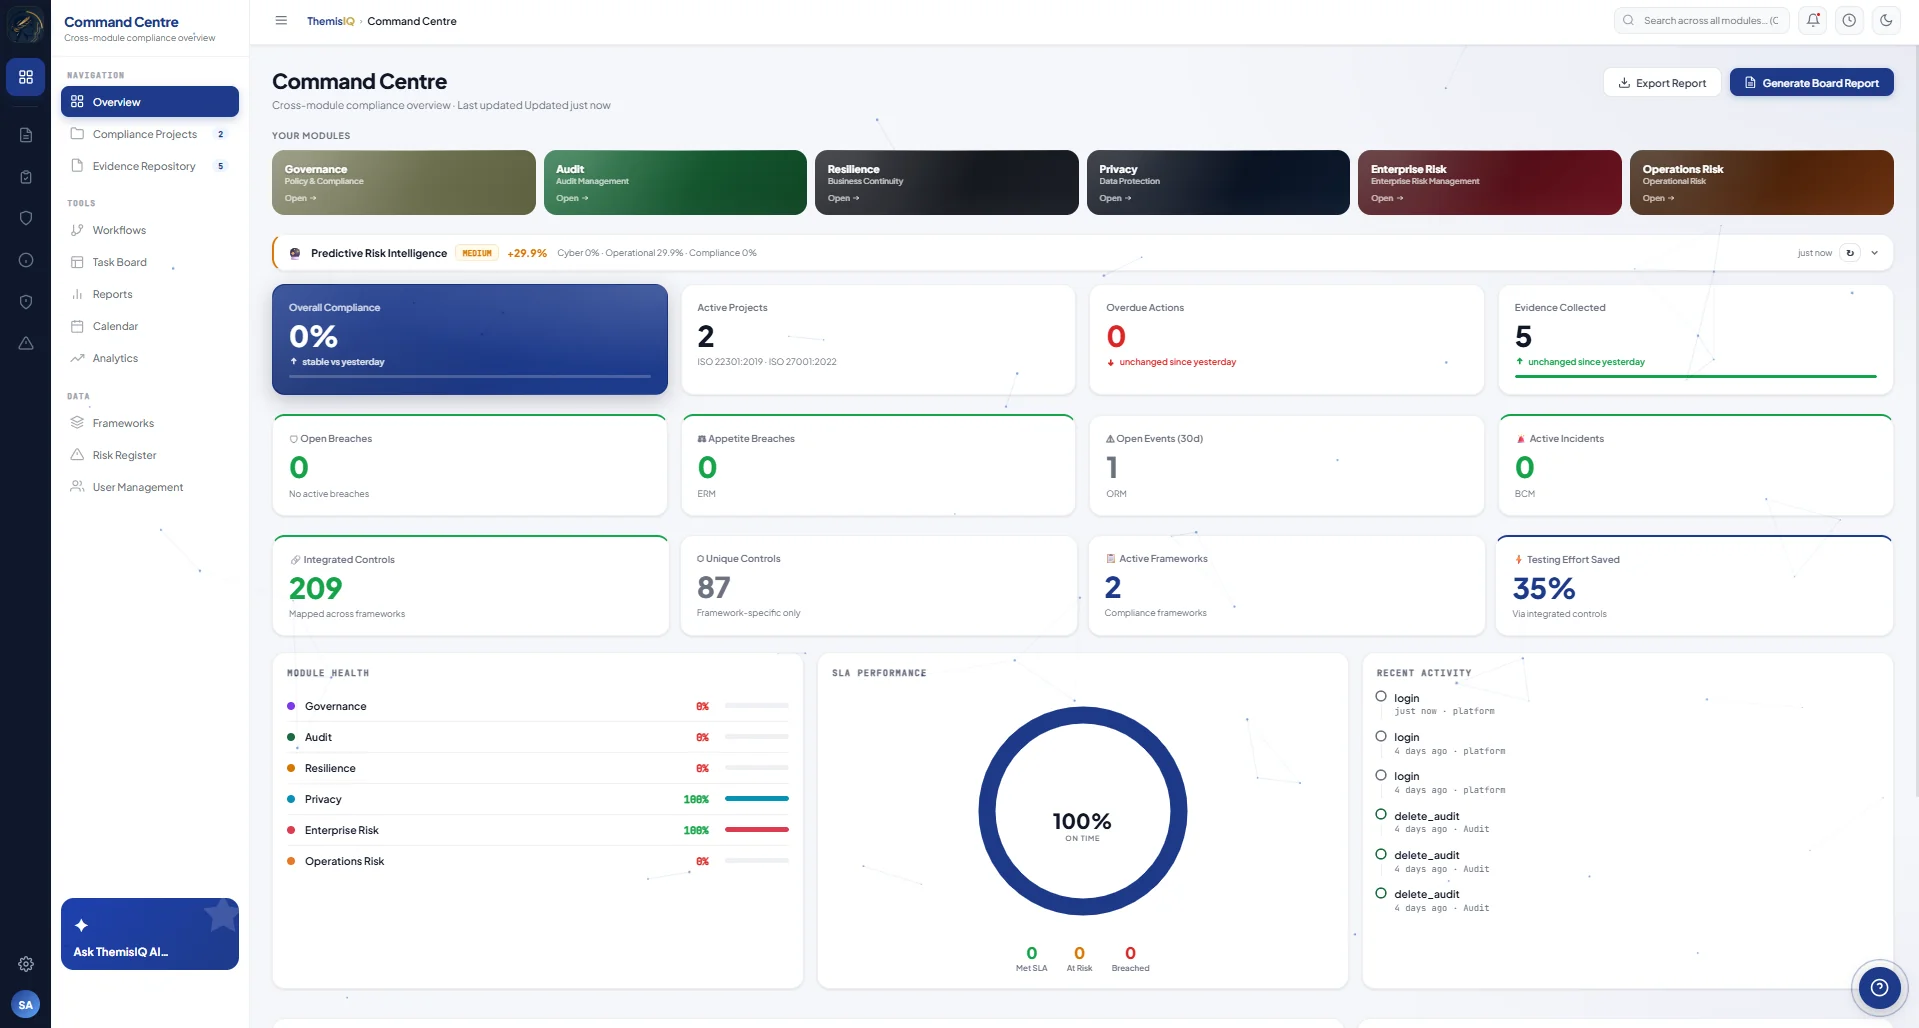
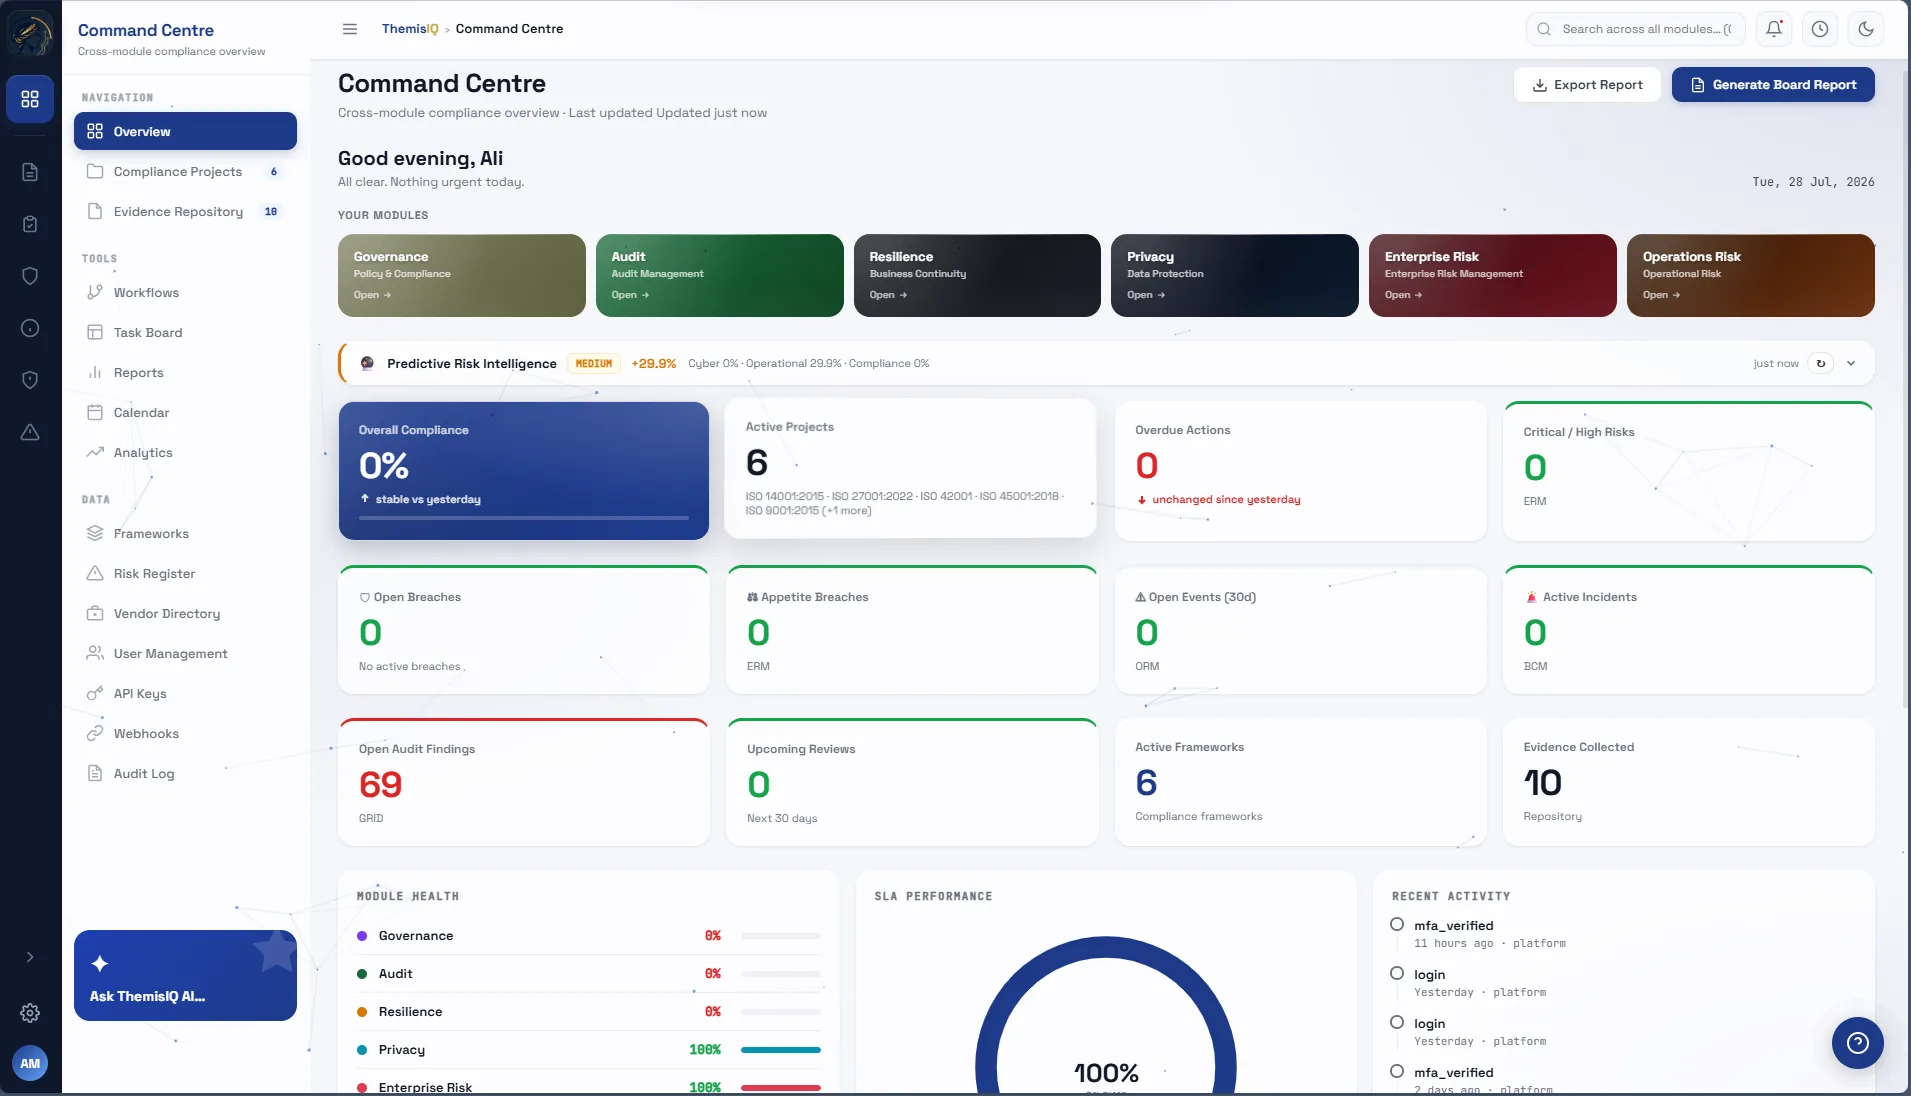
Landing page: refresh product screenshots, fix framework accuracy
Screenshots: replaced the Command Centre, Sentinel, and ERM dashboard
screenshots with current captures of the live app UI (new sidebar nav
sections, Predictive Risk Intelligence banner, Rating Frameworks,
Objectives & Pillars, External Context).

Sentinel jurisdictions stat: added POPIA and UAE/Saudi PDPL to the
sample list alongside GDPR, UK GDPR, LGPD, CCPA, CDPA.

Frameworks marquee and FAQ: both previously listed frameworks (NIST
CSF, DORA, ISO 31000, COBIT 2019, FCA/PRA, APRA CPS 234, NIS2, CMMC
2.0, ISO 22301) that aren't in the app's actual framework catalogue.
Replaced with the real 16-framework list from
seeds/framework_controls.py's FRAMEWORK_CONTROLS (GDPR, HIPAA, ISO
9001/14001/20000-1/22301/27001/27017/27701/31000/42001/45001/50001,
PCI DSS v4.0, SOC 2 Type II, Zimbabwe CDPA), and added a note that
additional frameworks can be added on request.

diff --git a/landing_page/index.html b/landing_page/index.html
@@ -242,7 +242,7 @@
       display: flex;
       align-items: center;
       width: max-content;
-      animation: marquee-scroll 42s linear infinite;
+      animation: marquee-scroll 60s linear infinite;
     }
     .marquee-track:hover { animation-play-state: paused; }
     @media (prefers-reduced-motion: reduce) { .marquee-track { animation: none; } }
@@ -618,63 +618,71 @@
     <p class="text-center text-label-xs font-mono uppercase tracking-widest mb-8" style="color:rgba(156,163,175,0.5)">Built to meet the world's most rigorous frameworks</p>
     <div class="marquee-fade overflow-hidden">
       <div class="marquee-track">
-        <!-- Set 1 -->
-        <span class="text-h2 font-heading font-bold whitespace-nowrap" style="color:rgba(241,245,249,0.45)">ISO 27001</span>
-        <span class="marquee-sep"></span>
-        <span class="text-h2 font-heading font-bold whitespace-nowrap" style="color:rgba(241,245,249,0.45)">SOC 2 TYPE II</span>
-        <span class="marquee-sep"></span>
-        <span class="text-h2 font-heading font-bold whitespace-nowrap" style="color:rgba(241,245,249,0.45)">NIST CSF 2.0</span>
-        <span class="marquee-sep"></span>
+        <!-- Set 1: full framework catalogue in the app (seeds/framework_controls.py FRAMEWORK_CONTROLS) -->
         <span class="text-h2 font-heading font-bold whitespace-nowrap" style="color:rgba(241,245,249,0.45)">GDPR</span>
         <span class="marquee-sep"></span>
         <span class="text-h2 font-heading font-bold whitespace-nowrap" style="color:rgba(241,245,249,0.45)">HIPAA</span>
         <span class="marquee-sep"></span>
-        <span class="text-h2 font-heading font-bold whitespace-nowrap" style="color:rgba(241,245,249,0.45)">PCI DSS 4.0</span>
+        <span class="text-h2 font-heading font-bold whitespace-nowrap" style="color:rgba(241,245,249,0.45)">ISO 14001:2015</span>
         <span class="marquee-sep"></span>
-        <span class="text-h2 font-heading font-bold whitespace-nowrap" style="color:rgba(241,245,249,0.45)">DORA</span>
+        <span class="text-h2 font-heading font-bold whitespace-nowrap" style="color:rgba(241,245,249,0.45)">ISO 20000-1:2018</span>
         <span class="marquee-sep"></span>
-        <span class="text-h2 font-heading font-bold whitespace-nowrap" style="color:rgba(241,245,249,0.45)">ISO 31000</span>
+        <span class="text-h2 font-heading font-bold whitespace-nowrap" style="color:rgba(241,245,249,0.45)">ISO 22301:2019</span>
         <span class="marquee-sep"></span>
-        <span class="text-h2 font-heading font-bold whitespace-nowrap" style="color:rgba(241,245,249,0.45)">COBIT 2019</span>
+        <span class="text-h2 font-heading font-bold whitespace-nowrap" style="color:rgba(241,245,249,0.45)">ISO 27001:2022</span>
         <span class="marquee-sep"></span>
-        <span class="text-h2 font-heading font-bold whitespace-nowrap" style="color:rgba(241,245,249,0.45)">FCA / PRA</span>
+        <span class="text-h2 font-heading font-bold whitespace-nowrap" style="color:rgba(241,245,249,0.45)">ISO 27017:2015</span>
         <span class="marquee-sep"></span>
-        <span class="text-h2 font-heading font-bold whitespace-nowrap" style="color:rgba(241,245,249,0.45)">APRA CPS 234</span>
+        <span class="text-h2 font-heading font-bold whitespace-nowrap" style="color:rgba(241,245,249,0.45)">ISO 27701:2019</span>
         <span class="marquee-sep"></span>
-        <span class="text-h2 font-heading font-bold whitespace-nowrap" style="color:rgba(241,245,249,0.45)">NIS2</span>
+        <span class="text-h2 font-heading font-bold whitespace-nowrap" style="color:rgba(241,245,249,0.45)">ISO 31000:2018</span>
         <span class="marquee-sep"></span>
-        <span class="text-h2 font-heading font-bold whitespace-nowrap" style="color:rgba(241,245,249,0.45)">CMMC 2.0</span>
+        <span class="text-h2 font-heading font-bold whitespace-nowrap" style="color:rgba(241,245,249,0.45)">ISO 42001</span>
         <span class="marquee-sep"></span>
-        <span class="text-h2 font-heading font-bold whitespace-nowrap" style="color:rgba(241,245,249,0.45)">ISO 22301</span>
+        <span class="text-h2 font-heading font-bold whitespace-nowrap" style="color:rgba(241,245,249,0.45)">ISO 45001:2018</span>
+        <span class="marquee-sep"></span>
+        <span class="text-h2 font-heading font-bold whitespace-nowrap" style="color:rgba(241,245,249,0.45)">ISO 50001:2018</span>
+        <span class="marquee-sep"></span>
+        <span class="text-h2 font-heading font-bold whitespace-nowrap" style="color:rgba(241,245,249,0.45)">ISO 9001:2015</span>
+        <span class="marquee-sep"></span>
+        <span class="text-h2 font-heading font-bold whitespace-nowrap" style="color:rgba(241,245,249,0.45)">PCI DSS v4.0</span>
+        <span class="marquee-sep"></span>
+        <span class="text-h2 font-heading font-bold whitespace-nowrap" style="color:rgba(241,245,249,0.45)">SOC 2 TYPE II</span>
+        <span class="marquee-sep"></span>
+        <span class="text-h2 font-heading font-bold whitespace-nowrap" style="color:rgba(241,245,249,0.45)">ZIMBABWE CDPA</span>
         <span class="marquee-sep"></span>
         <!-- Set 2: duplicate for seamless loop -->
-        <span class="text-h2 font-heading font-bold whitespace-nowrap" style="color:rgba(241,245,249,0.45)">ISO 27001</span>
-        <span class="marquee-sep"></span>
-        <span class="text-h2 font-heading font-bold whitespace-nowrap" style="color:rgba(241,245,249,0.45)">SOC 2 TYPE II</span>
-        <span class="marquee-sep"></span>
-        <span class="text-h2 font-heading font-bold whitespace-nowrap" style="color:rgba(241,245,249,0.45)">NIST CSF 2.0</span>
-        <span class="marquee-sep"></span>
         <span class="text-h2 font-heading font-bold whitespace-nowrap" style="color:rgba(241,245,249,0.45)">GDPR</span>
         <span class="marquee-sep"></span>
         <span class="text-h2 font-heading font-bold whitespace-nowrap" style="color:rgba(241,245,249,0.45)">HIPAA</span>
         <span class="marquee-sep"></span>
-        <span class="text-h2 font-heading font-bold whitespace-nowrap" style="color:rgba(241,245,249,0.45)">PCI DSS 4.0</span>
+        <span class="text-h2 font-heading font-bold whitespace-nowrap" style="color:rgba(241,245,249,0.45)">ISO 14001:2015</span>
         <span class="marquee-sep"></span>
-        <span class="text-h2 font-heading font-bold whitespace-nowrap" style="color:rgba(241,245,249,0.45)">DORA</span>
+        <span class="text-h2 font-heading font-bold whitespace-nowrap" style="color:rgba(241,245,249,0.45)">ISO 20000-1:2018</span>
         <span class="marquee-sep"></span>
-        <span class="text-h2 font-heading font-bold whitespace-nowrap" style="color:rgba(241,245,249,0.45)">ISO 31000</span>
+        <span class="text-h2 font-heading font-bold whitespace-nowrap" style="color:rgba(241,245,249,0.45)">ISO 22301:2019</span>
         <span class="marquee-sep"></span>
-        <span class="text-h2 font-heading font-bold whitespace-nowrap" style="color:rgba(241,245,249,0.45)">COBIT 2019</span>
+        <span class="text-h2 font-heading font-bold whitespace-nowrap" style="color:rgba(241,245,249,0.45)">ISO 27001:2022</span>
         <span class="marquee-sep"></span>
-        <span class="text-h2 font-heading font-bold whitespace-nowrap" style="color:rgba(241,245,249,0.45)">FCA / PRA</span>
+        <span class="text-h2 font-heading font-bold whitespace-nowrap" style="color:rgba(241,245,249,0.45)">ISO 27017:2015</span>
         <span class="marquee-sep"></span>
-        <span class="text-h2 font-heading font-bold whitespace-nowrap" style="color:rgba(241,245,249,0.45)">APRA CPS 234</span>
+        <span class="text-h2 font-heading font-bold whitespace-nowrap" style="color:rgba(241,245,249,0.45)">ISO 27701:2019</span>
         <span class="marquee-sep"></span>
-        <span class="text-h2 font-heading font-bold whitespace-nowrap" style="color:rgba(241,245,249,0.45)">NIS2</span>
+        <span class="text-h2 font-heading font-bold whitespace-nowrap" style="color:rgba(241,245,249,0.45)">ISO 31000:2018</span>
         <span class="marquee-sep"></span>
-        <span class="text-h2 font-heading font-bold whitespace-nowrap" style="color:rgba(241,245,249,0.45)">CMMC 2.0</span>
+        <span class="text-h2 font-heading font-bold whitespace-nowrap" style="color:rgba(241,245,249,0.45)">ISO 42001</span>
         <span class="marquee-sep"></span>
-        <span class="text-h2 font-heading font-bold whitespace-nowrap" style="color:rgba(241,245,249,0.45)">ISO 22301</span>
+        <span class="text-h2 font-heading font-bold whitespace-nowrap" style="color:rgba(241,245,249,0.45)">ISO 45001:2018</span>
+        <span class="marquee-sep"></span>
+        <span class="text-h2 font-heading font-bold whitespace-nowrap" style="color:rgba(241,245,249,0.45)">ISO 50001:2018</span>
+        <span class="marquee-sep"></span>
+        <span class="text-h2 font-heading font-bold whitespace-nowrap" style="color:rgba(241,245,249,0.45)">ISO 9001:2015</span>
+        <span class="marquee-sep"></span>
+        <span class="text-h2 font-heading font-bold whitespace-nowrap" style="color:rgba(241,245,249,0.45)">PCI DSS v4.0</span>
+        <span class="marquee-sep"></span>
+        <span class="text-h2 font-heading font-bold whitespace-nowrap" style="color:rgba(241,245,249,0.45)">SOC 2 TYPE II</span>
+        <span class="marquee-sep"></span>
+        <span class="text-h2 font-heading font-bold whitespace-nowrap" style="color:rgba(241,245,249,0.45)">ZIMBABWE CDPA</span>
         <span class="marquee-sep"></span>
       </div>
     </div>
@@ -1049,7 +1057,7 @@
           <div class="bg-surface-container border border-outline-variant rounded-lg p-4 flex-1">
             <div class="text-label-xs font-mono text-outline uppercase tracking-widest">Jurisdictions</div>
             <div class="font-heading text-h1 mt-1" style="color:#2170e4">27</div>
-            <div class="text-label-xs font-mono text-on-surface-variant mt-1">GDPR · UK GDPR · LGPD · CCPA · CDPA +</div>
+            <div class="text-label-xs font-mono text-on-surface-variant mt-1">GDPR · UK GDPR · LGPD · CCPA · CDPA · POPIA · UAE PDPL · Saudi PDPL +</div>
           </div>
           <div class="bg-surface-container border border-outline-variant rounded-lg p-4 flex-1">
             <div class="text-label-xs font-mono text-outline uppercase tracking-widest">Breach Timer</div>
@@ -1582,7 +1590,7 @@
             <span class="material-symbols-outlined faq-chevron text-on-surface-variant" style="font-size:20px">expand_more</span>
           </button>
           <div class="faq-content">
-            <div><p class="pb-5 text-body text-on-surface-variant leading-relaxed">ThemisIQ ships with built-in support for ISO 27001, SOC 2 Type II, NIST CSF, GDPR, HIPAA, PCI DSS, DORA, and more across 27 jurisdictions. Controls are cross-mapped automatically, so a single implementation satisfies multiple frameworks simultaneously.</p></div>
+            <div><p class="pb-5 text-body text-on-surface-variant leading-relaxed">ThemisIQ ships with built-in support for 16 frameworks, including ISO 27001, SOC 2 Type II, GDPR, HIPAA, PCI DSS, ISO 42001, ISO 22301, ISO 31000, and Zimbabwe CDPA, across 27 jurisdictions. Controls are cross-mapped automatically, so a single implementation satisfies multiple frameworks simultaneously. Don't see the one you need? We can add it on request.</p></div>
           </div>
         </div>
 
